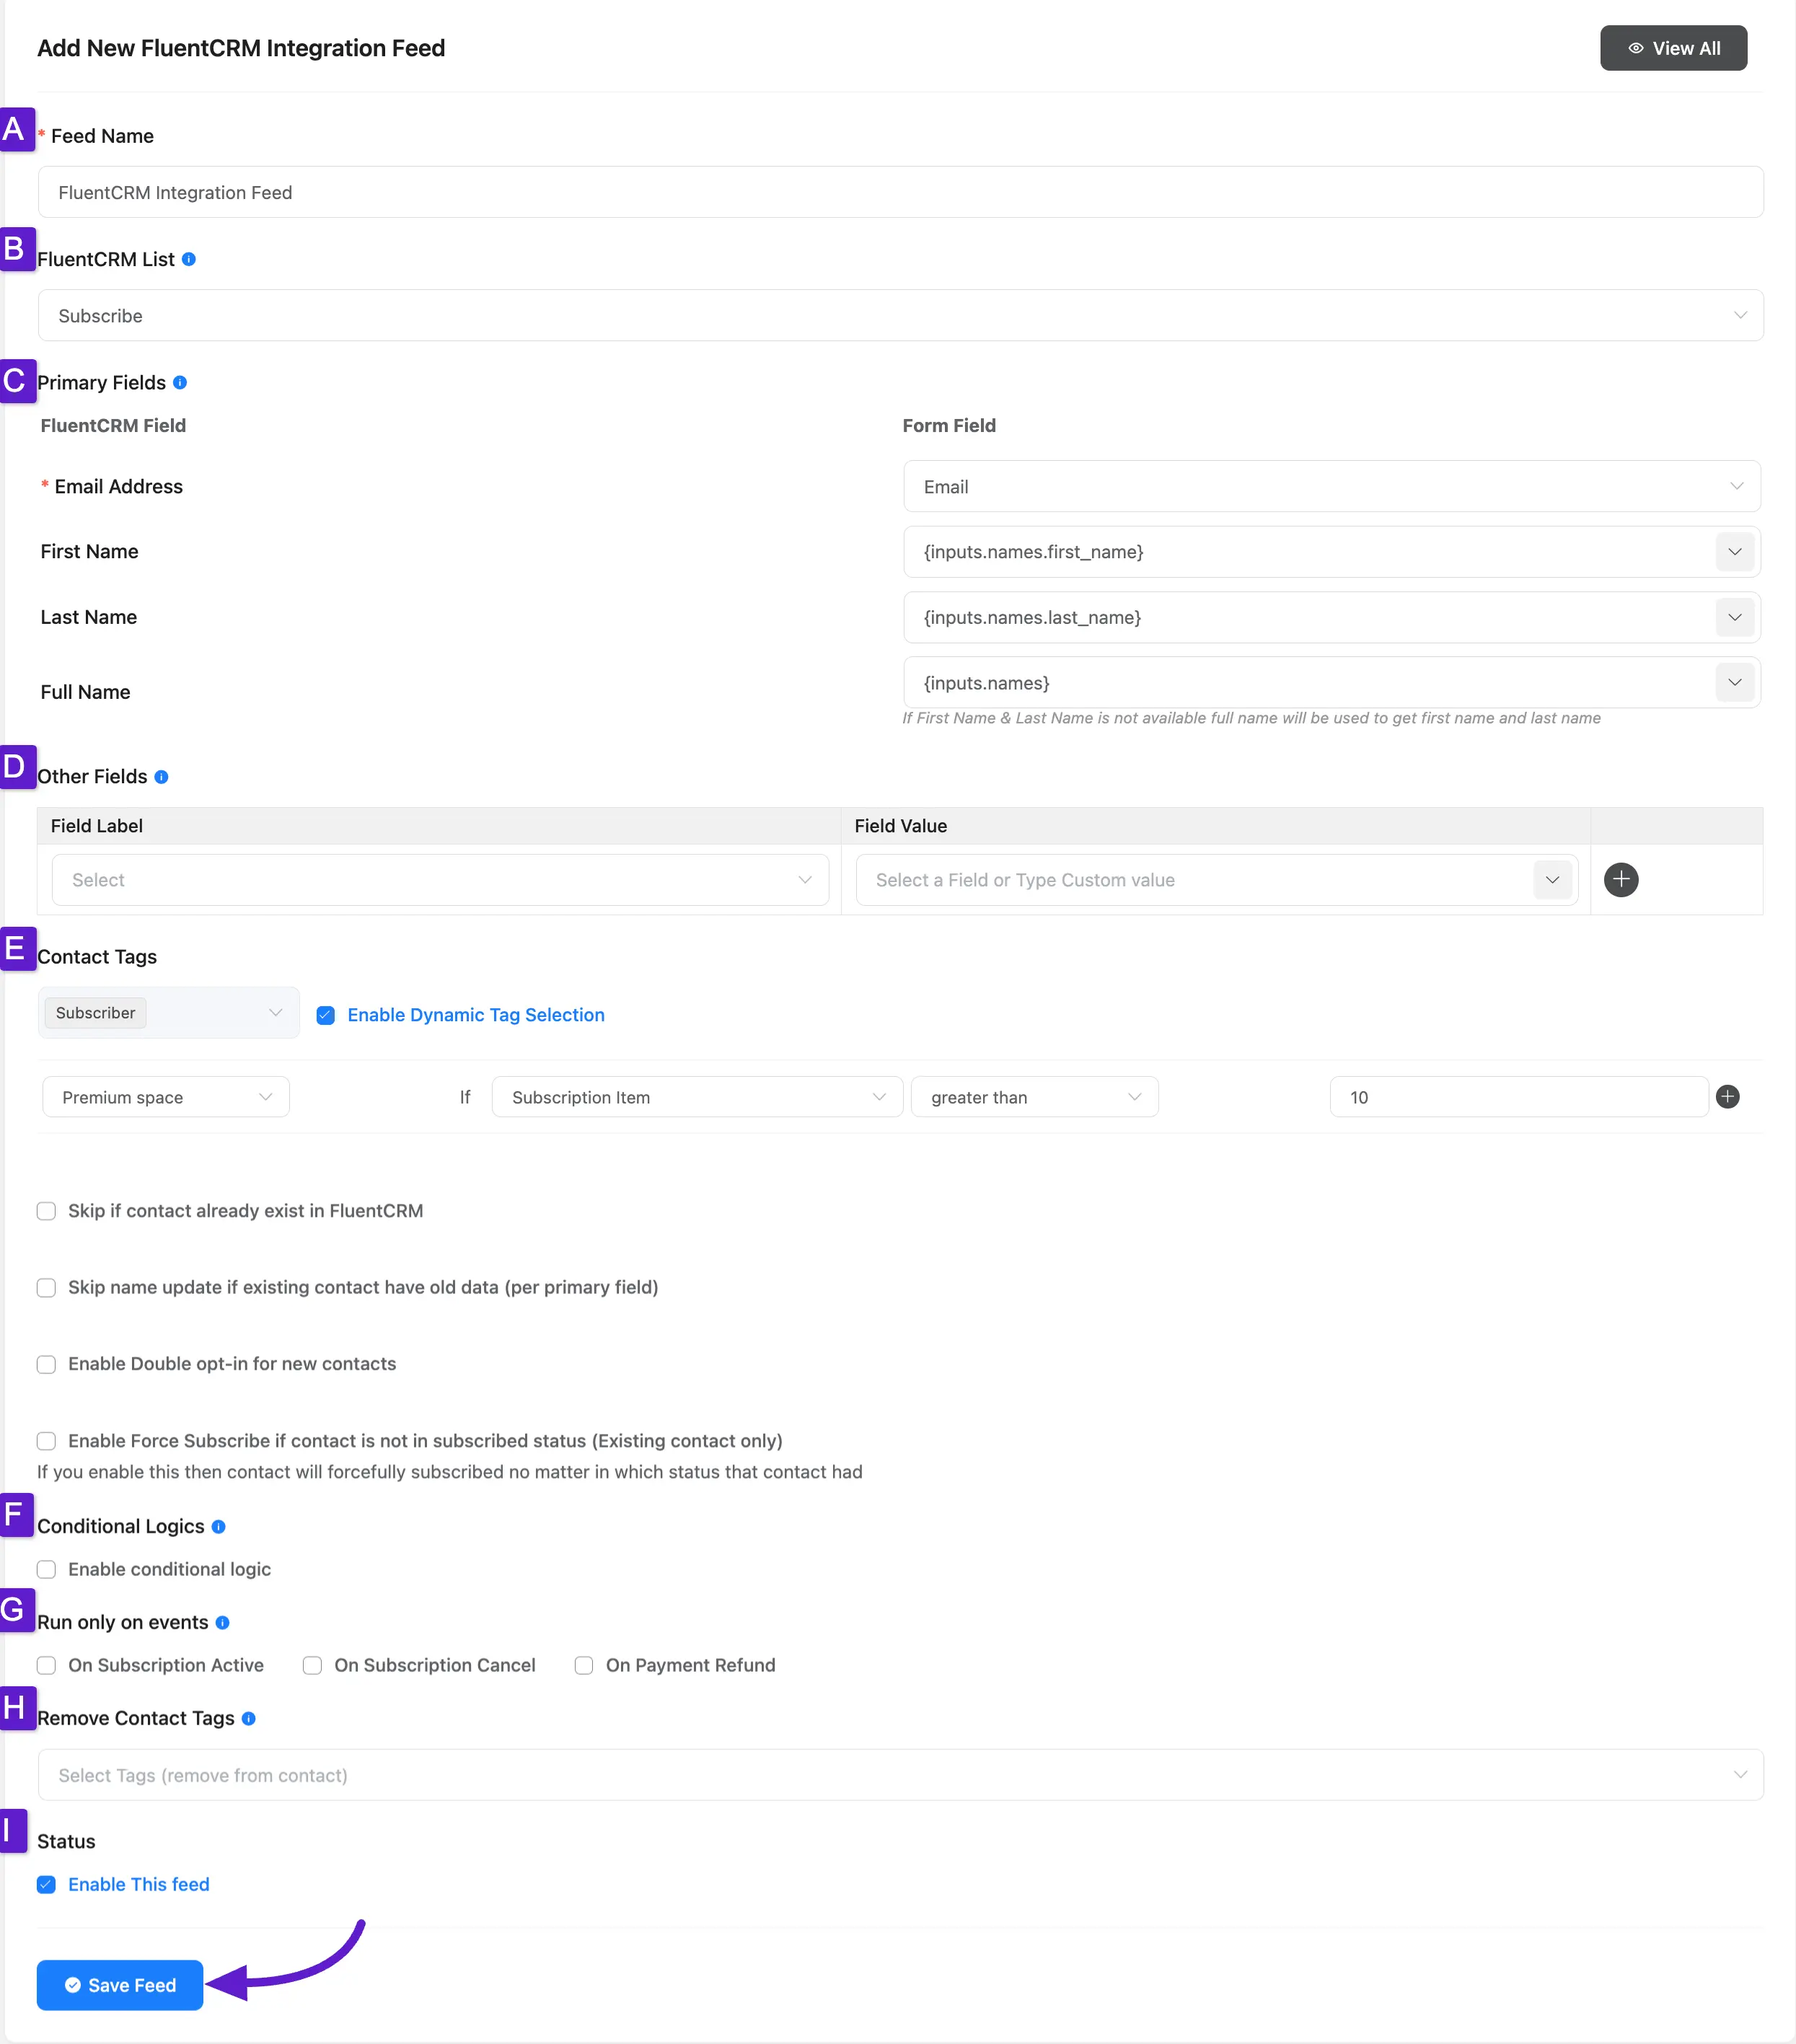
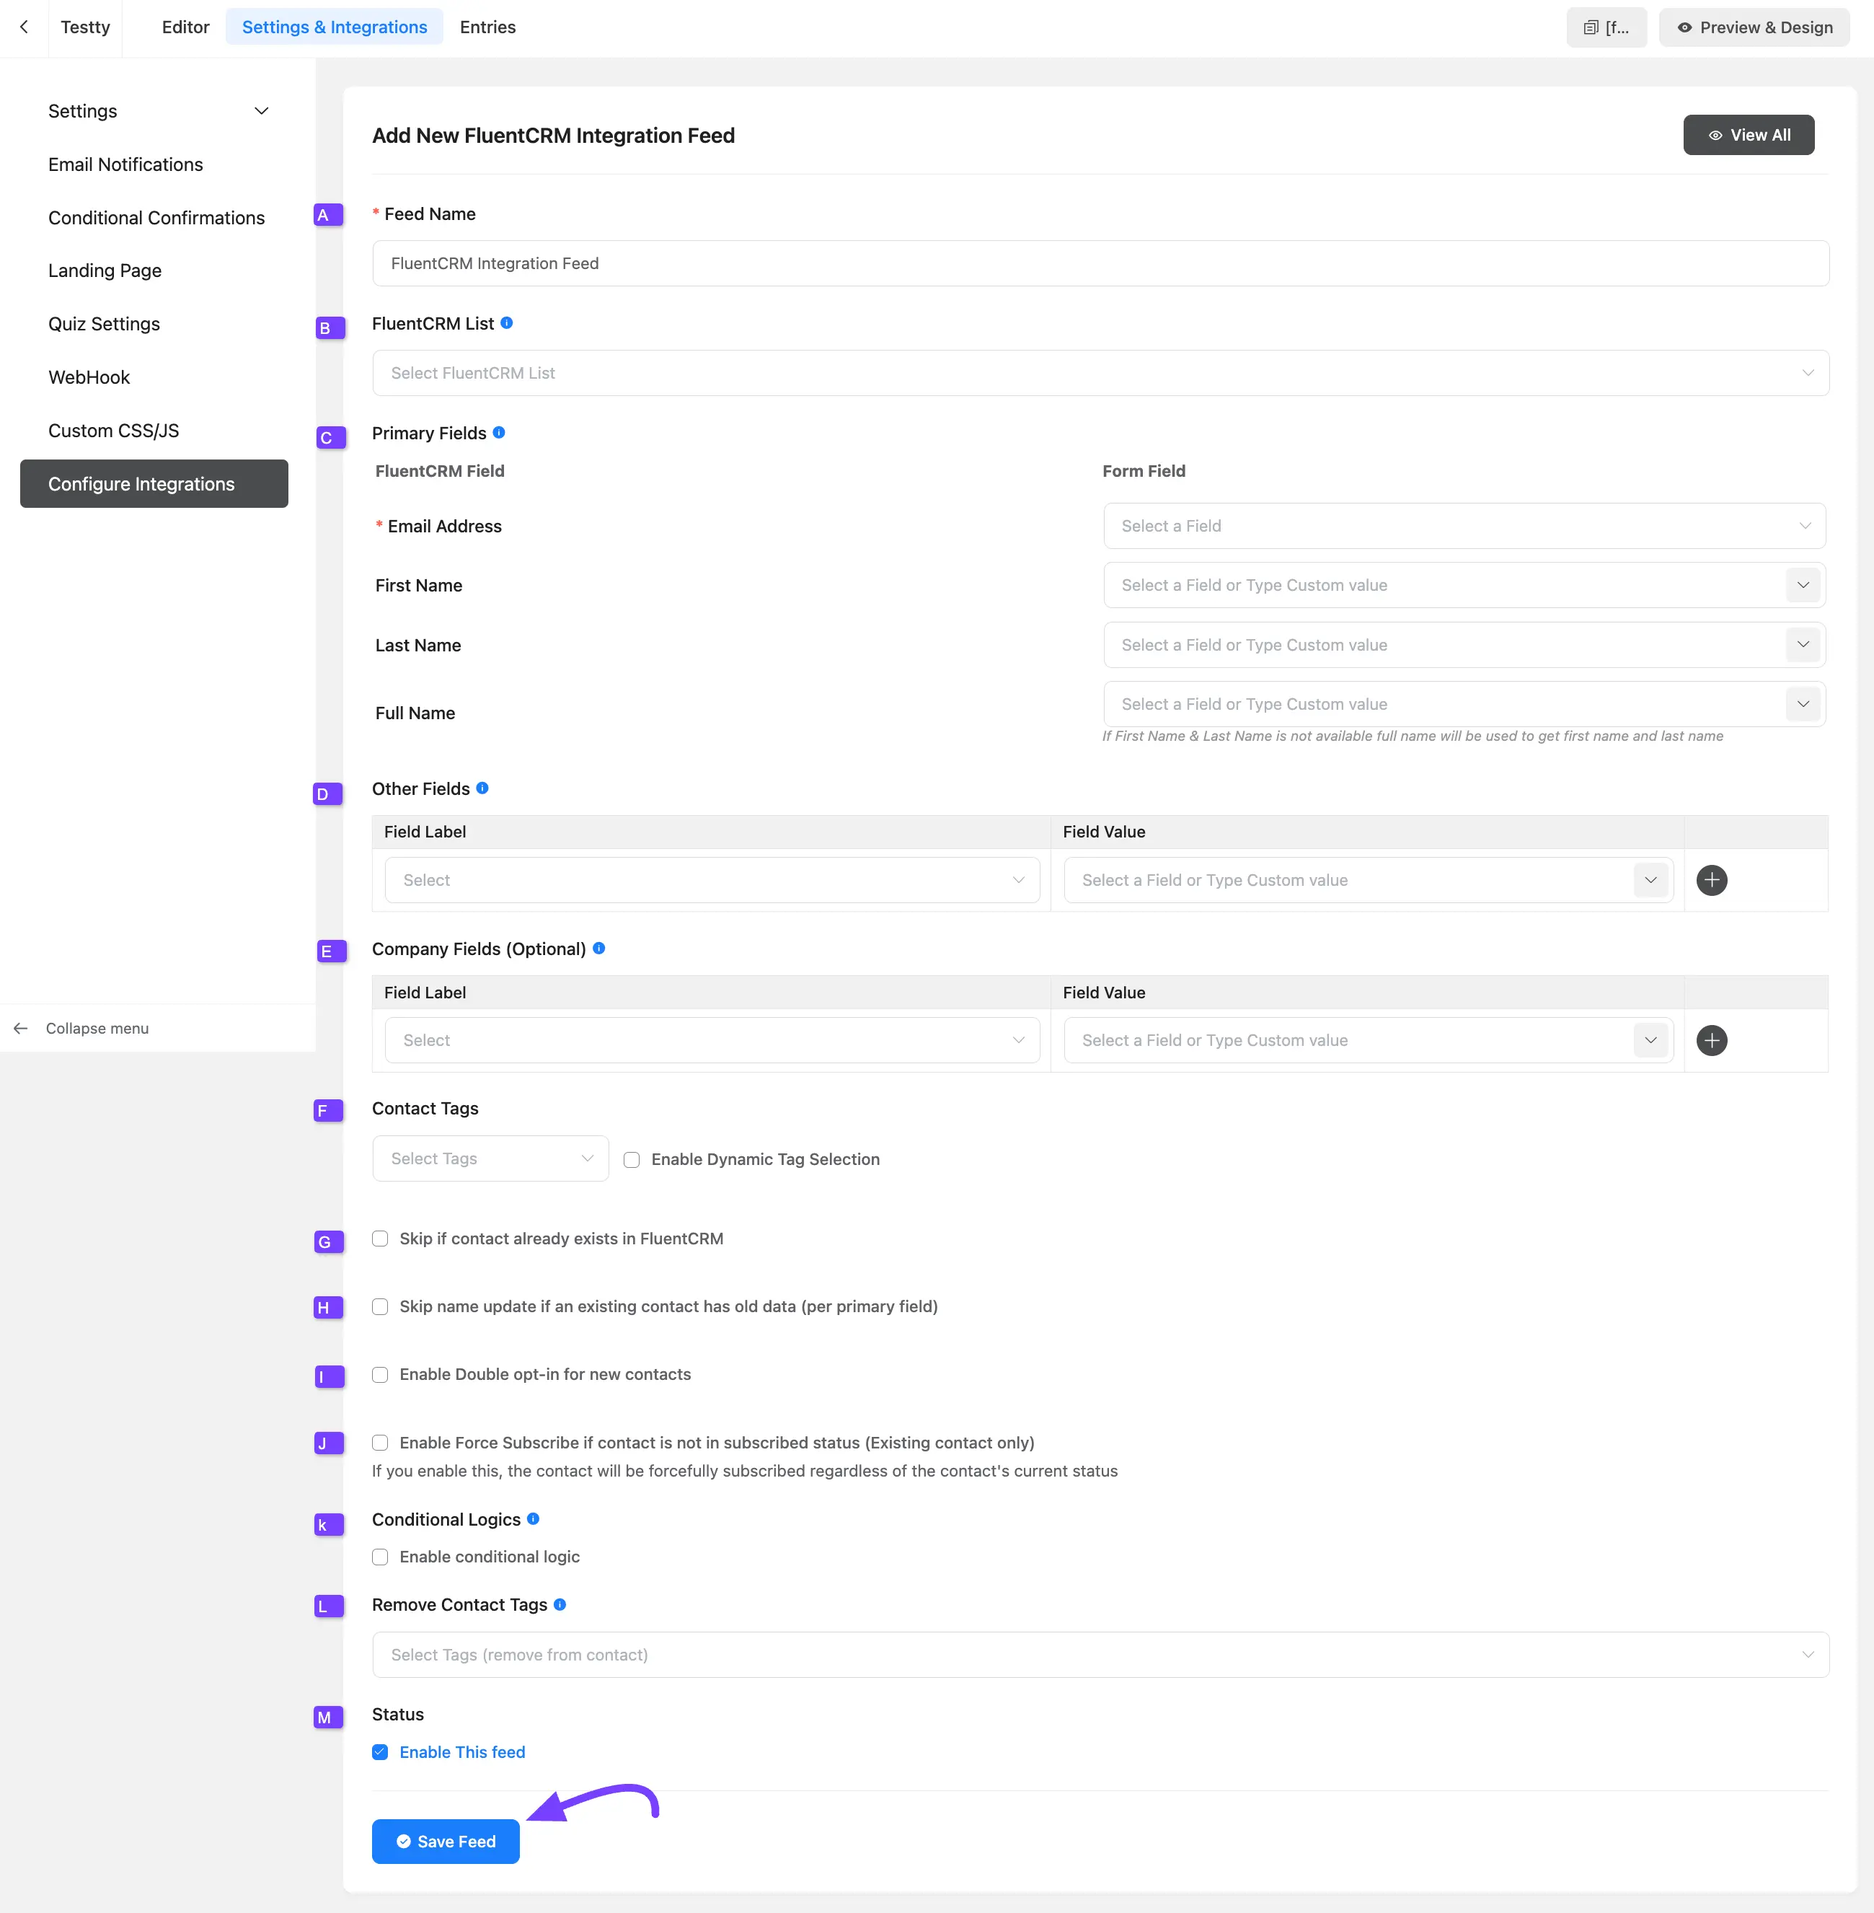
image and decsription update wp form integration doc

diff --git a/docs/integrations/wp-fluent-forms-integration-with-fluentcrm.md b/docs/integrations/wp-fluent-forms-integration-with-fluentcrm.md
@@ -11,15 +11,16 @@ Fluent Forms integrates with FluentCRM to help you collect leads and gather valu
 
 In this article, you’ll learn how to integrate FluentCRM with Fluent Forms and how it works.
 
+> [!Note]
 > No additional settings are required to integrate FluentCRM with Fluent Forms. Simply install and activate both plugins on your site.
 
-## **Feed integration Settings for FluentCRM** 
+## Feed integration Settings for FluentCRM
 
 First, go to **Integrations** in the Fluent Forms navbar and search for **FluentCRM**. You’ll see the FluentCRM integration module simply toggle it to enable the FluentCRM module, which will activate the Feed Integration for FluentCRM in your forms.
 
 ![fluentfroms integation with fluentcrm 1](/integrations/wp-fluent-forms-integration-with-fluentcrm/FluentFroms-Integation-with-FluentCRM-1.webp)
 
-## **Integration Feed for FluentCRM in Forms**
+## Integration Feed for FluentCRM in Forms
 
 Go to **Forms** from the Fluent Forms navbar, and select the form you want to integrate with your FluentCRM. 
 
@@ -32,57 +33,34 @@ Now, go to the Forms **Settings and Integration** tab from the top menu bar and 
 
 ### Configure FluentCRM Integration Feed
 
- * **A. Feed Name**: Here you need to enter a name for your FluentCRM integration feed.
- * **B. FluentCRM List:** Select the FluentCRM contact list you wish to integrate with. You can also change this anytime if needed.
- * **C. Primary Fields:** Use all the fields under this option to properly link your **FluentCRM** fields with the **Form Fields**. You can easily select the value for the form fields based on the **FluentCRM** fields using the **Shortcode**.
- * **D. Other fields:** You can map additional fields to Fluent Forms fields. To add multiple fields **Plus (+) Icon**.
- * **Company Fields (Optional):** Appears right below **Other Fields** when the [Company Module](/company-module) is enabled. Map a form field to **Company Name** to attach new contacts to a company. See [Sync a Company From the Form](#sync-a-company-from-the-form).
- * **E. Contact Tag:** Here select one or multiple FluentCRM tags for the contact from your FluentCRM Contact tags.
- * **Enable Dynamic Tag Selection:**  To apply tags based on submission values, enable dynamic tags by checking the **Enable Dynamic Tag Selection** option.
- * **Skip contact already exists in FluentCRM:** If you want to prevent duplicate contact in FluentCRM then check the checkboxes of **skip contact already exist in FluentCRM**. 
- * **Skip name update if existing contact has old data:** If you want to retain existing contact names even if new data is submitted then check the checkboxes of **skip name update if existing contact have old data (per primary)** options.
- * **Enable Double Opt-In for a new Contact:** Enable this option to send a double opt-in email for new contacts.
- * **Enable Force subscribe if contact is not in subscribed status:** Here check the checkboxes to enable this to subscribe existing contacts that are not already subscribed.
- * **F. Conditional logic:** If you want to allow FluentCRM integration conditionally based on your submission values then **Enable Conditional Logic** options. To know more about this conditional logic read the [article](https://wpmanageninja.com/docs/fluent-form/advanced-features-functionalities-in-wp-fluent-form/conditional-logic-fluent-form/).
- * **G. Run Only on Events:** You will get this option only in the Subscription form. You’ll find three conditions here. If you want this integration feed to run only when one of these events occurs, select the event to trigger the feed accordingly. The available conditions are:
+Each letter below matches the label in the screenshot.
+
+ * **A. Feed Name:** Enter a name for the feed so you can recognize it later.
+ * **B. FluentCRM List:** Select the FluentCRM list that new contacts are added to. You can change it anytime.
+ * **C. Primary Fields:** Map the FluentCRM contact fields (**Email Address**, **First Name**, **Last Name**, **Full Name**) to your form fields. Pick a form field from the dropdown or type a custom value with a smart code. **Email Address** is required. If you leave **First Name** and **Last Name** unmapped, FluentCRM splits **Full Name** into both.
+ * **D. Other Fields:** Map additional FluentCRM fields, including custom fields, to form fields. Click the **Plus (+)** icon to add more rows.
+ * **E. Company Fields (Optional):** Appears when the [Company Module](/company-module) is enabled. Map a form field to **Company Name** to attach new contacts to a company.
+ * **F. Contact Tags:** Select one or more tags to apply to the contact. Check **Enable Dynamic Tag Selection** to apply tags based on submission values instead.
+ * **G. Skip if contact already exists in FluentCRM:** Check this to skip the feed when the email already belongs to a contact, so no existing contact is touched.
+ * **H. Skip name update if an existing contact has old data (per primary field):** Check this to keep the names already stored on an existing contact, even when the submission contains new ones.
+ * **I. Enable Double opt-in for new contacts:** Check this to send a double opt-in confirmation email to new contacts.
+ * **J. Enable Force Subscribe if contact is not in subscribed status (Existing contact only):** Check this to subscribe an existing contact regardless of their current status.
+ * **K. Conditional Logics:** Check **Enable conditional logic** to run the feed only when the submission meets your conditions. Learn more in the [Fluent Forms conditional logic guide](https://wpmanageninja.com/docs/fluent-form/advanced-features-functionalities-in-wp-fluent-form/conditional-logic-fluent-form/).
+ * **L. Remove Contact Tags:** Select the tags to remove from the contact when the feed runs.
+ * **M. Status:** Check **Enable This feed** to activate the integration.
+
+On a form with a subscription field, a **Run Only on Events** option also appears. Select an event to run the feed only when it occurs:
 
 -   **On Subscription Active**
 -   **On Subscription Cancel**
 -   **On Payment Refund**
 
- * **H. Remove Contact Tags:** If you want to remove a contact's tags in FluentCRM, select the desired tags from the dropdown list.
- * **I. Status:** Enable this feed option to activate the integration.
-
-After configuring the integration, Click the **Save Feed** button to finalize your FluentCRM integration.
+Click **Save Feed** to finish.
 
 ![fluentfroms integation with fluentcrm 3](/integrations/wp-fluent-forms-integration-with-fluentcrm/FluentFroms-Integation-with-FluentCRM-3.webp)
 
-### Sync a Company From the Form
 
-B2B forms often ask for a company name next to the person's details. With the [Company Module](/company-module) turned on, the feed can turn that answer into a company record and attach the new contact to it, so you don't have to create companies by hand.
-
-1. Enable the Company Module under **Settings → Advanced Features**.
-2. Open your FluentCRM feed in Fluent Forms. The **Company Fields (Optional)** mapper sits below **Other Fields**.
-3. In the first column, choose a **FluentCRM Company Field**. In the second, choose the matching **Form Field**.
-4. Map **Company Name** at minimum. Everything else is optional.
-5. Click **Save Feed**.
-
-Besides **Company Name**, you can map the standard company fields, such as **Industry**, **Company Email**, **Company Phone**, the address fields, **Website URL**, and **Employees Number**, along with any custom company fields you've created. Owner details aren't available here. Leave **Company Name** unmapped and the feed behaves exactly as before, creating only the contact.
-
-When a submission creates a new contact, FluentCRM handles the company like this:
-
-- **The company already exists:** FluentCRM looks for one with exactly the same name and attaches the contact to it. It doesn't change anything else on that company, so a stranger filling in your public form can't overwrite your company details.
-- **The company is new:** FluentCRM creates it from the mapped fields and attaches the contact to it.
-- **Primary company:** If the contact has no primary company yet, this one becomes it. A mapped **Company Name** takes precedence over a **Primary Company** mapped under **Other Fields**.
-
-Company names are trimmed to 192 characters before the lookup.
-
->[!Warning]
-> Company sync runs only when the submission creates a **new** contact. If the email address already belongs to a contact, the company mapping is skipped and the contact's companies stay as they were.
-
-If the company can't be created or attached, the Fluent Forms submission log shows a **failed** entry for the feed. The contact itself has already been created by then and isn't rolled back, and resubmitting the form won't retry the company because the contact now exists. Add the company to that contact manually.
-
-## **Automation Triggers for Fluent Forms**
+## Automation Triggers for Fluent Forms
 
 FluentCRM offers automation triggers for Fluent Forms, allowing you to automate actions based on user interactions. When you create a new automation in FluentCRM, you’ll find three automation triggers for Fluent Forms.
 
@@ -90,7 +68,7 @@ Go to **FluentCRM** and create a new automation. Select an **Automation Trigger*
 
 If you want to know more about how to create an automation, check out our [documentation](/automation-editor) for detailed steps
 
-### **Available Automation Triggers**
+### Available Automation Triggers
 
 -   **Subscription Canceled**This automation starts when a user cancels their subscription. It only applies to users who subscribed via Fluent Forms, and the cancellation must be done from the frontend by the user. If an admin cancels the subscription, this trigger won’t run.
 -   **Subscription Payment Received**This automation triggers when a user makes a subscription-based payment through Fluent Forms.
@@ -98,7 +76,7 @@ If you want to know more about how to create an automation, check out our [docum
 
 ![fluentfroms integation with fluentcrm 4](/integrations/wp-fluent-forms-integration-with-fluentcrm/FluentFroms-Integation-with-FluentCRM-4.webp)
 
-#### **Subscription Canceled**
+#### Subscription Canceled
 
 After selecting the **Subscription Canceled** automation trigger, a pop-up will appear where you need to provide some necessary details.
 
@@ -108,7 +86,7 @@ You can also specify if this automation should run for specific forms. To do thi
 
 ![fluentfroms integation with fluentcrm 5](/integrations/wp-fluent-forms-integration-with-fluentcrm/FluentFroms-Integation-with-FluentCRM-5.webp)
 
-#### **Subscription Payment Received**
+#### Subscription Payment Received
 
 After selecting the **Subscription Payment Received** automation trigger, a pop-up will appear where you need to enter the required details.
 
@@ -120,7 +98,7 @@ Select the **Subscription Status** after this trigger action.
 
 ![fluentfroms integation with fluentcrm 6](/integrations/wp-fluent-forms-integration-with-fluentcrm/FluentFroms-Integation-with-FluentCRM-6.webp)
 
-#### **New Form Submission**
+#### New Form Submission
 
 After selecting the **New From Submission** automation trigger, a pop-up will appear where you need to provide some necessary details.
 
@@ -128,7 +106,7 @@ Now choose a form from the **Select Your Form** dropdown if you want this automa
 
 ![fluentfroms integation with fluentcrm 7](/integrations/wp-fluent-forms-integration-with-fluentcrm/FluentFroms-Integation-with-FluentCRM-7.webp)
 
-## **FluentForm Subscriptions Widget in Contact Profile**
+## FluentForm Subscriptions Widget in Contact Profile
 
 A widget will appear in the FluentCRM contact’s profile for users who have subscribed via Fluent Forms.
 
